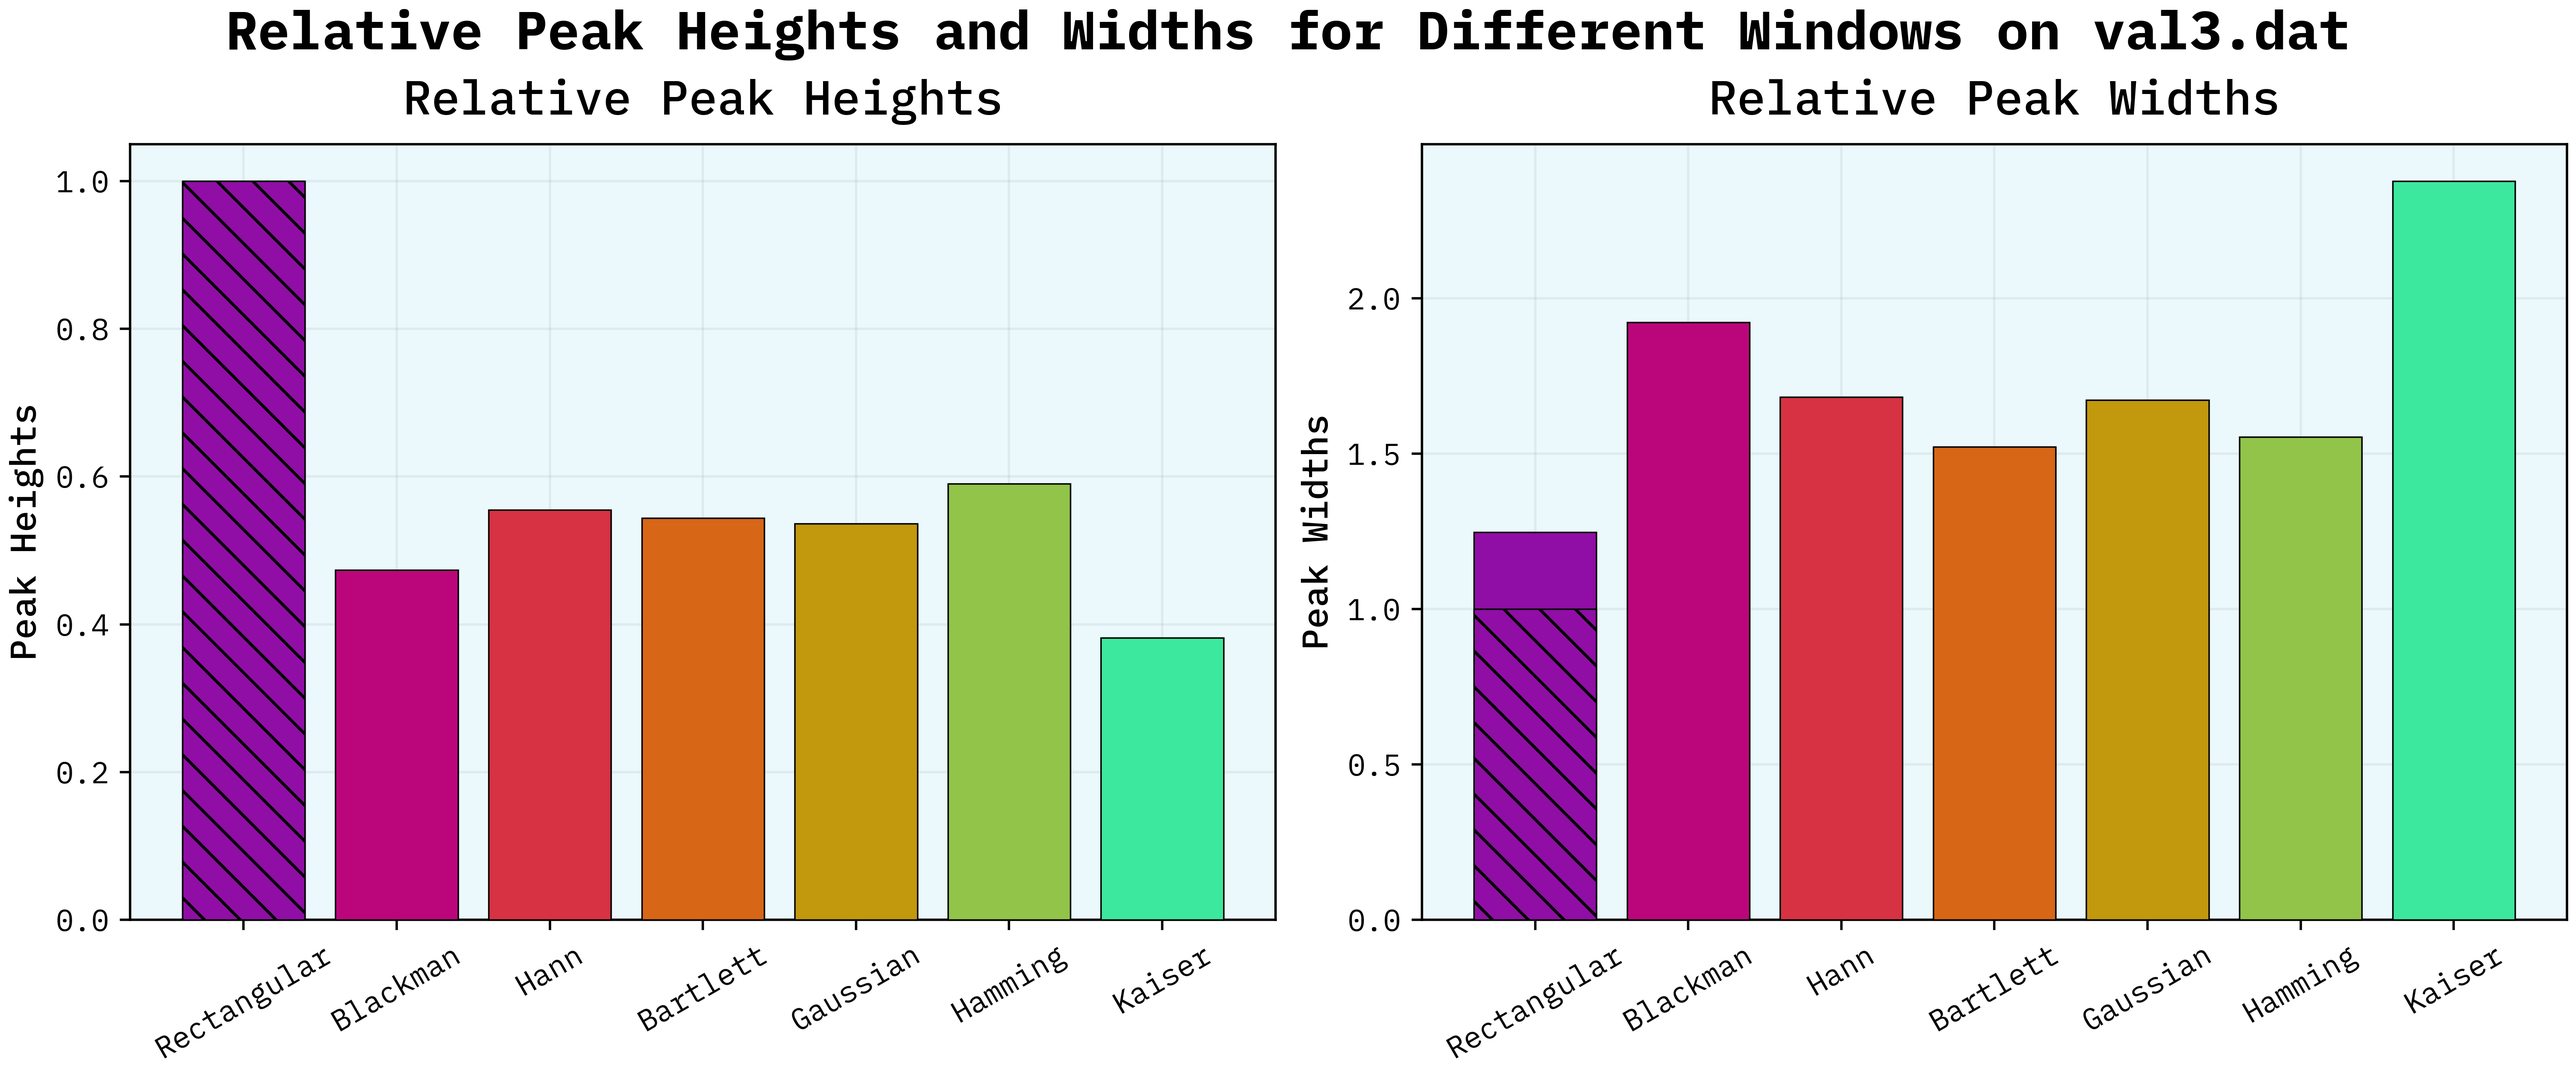
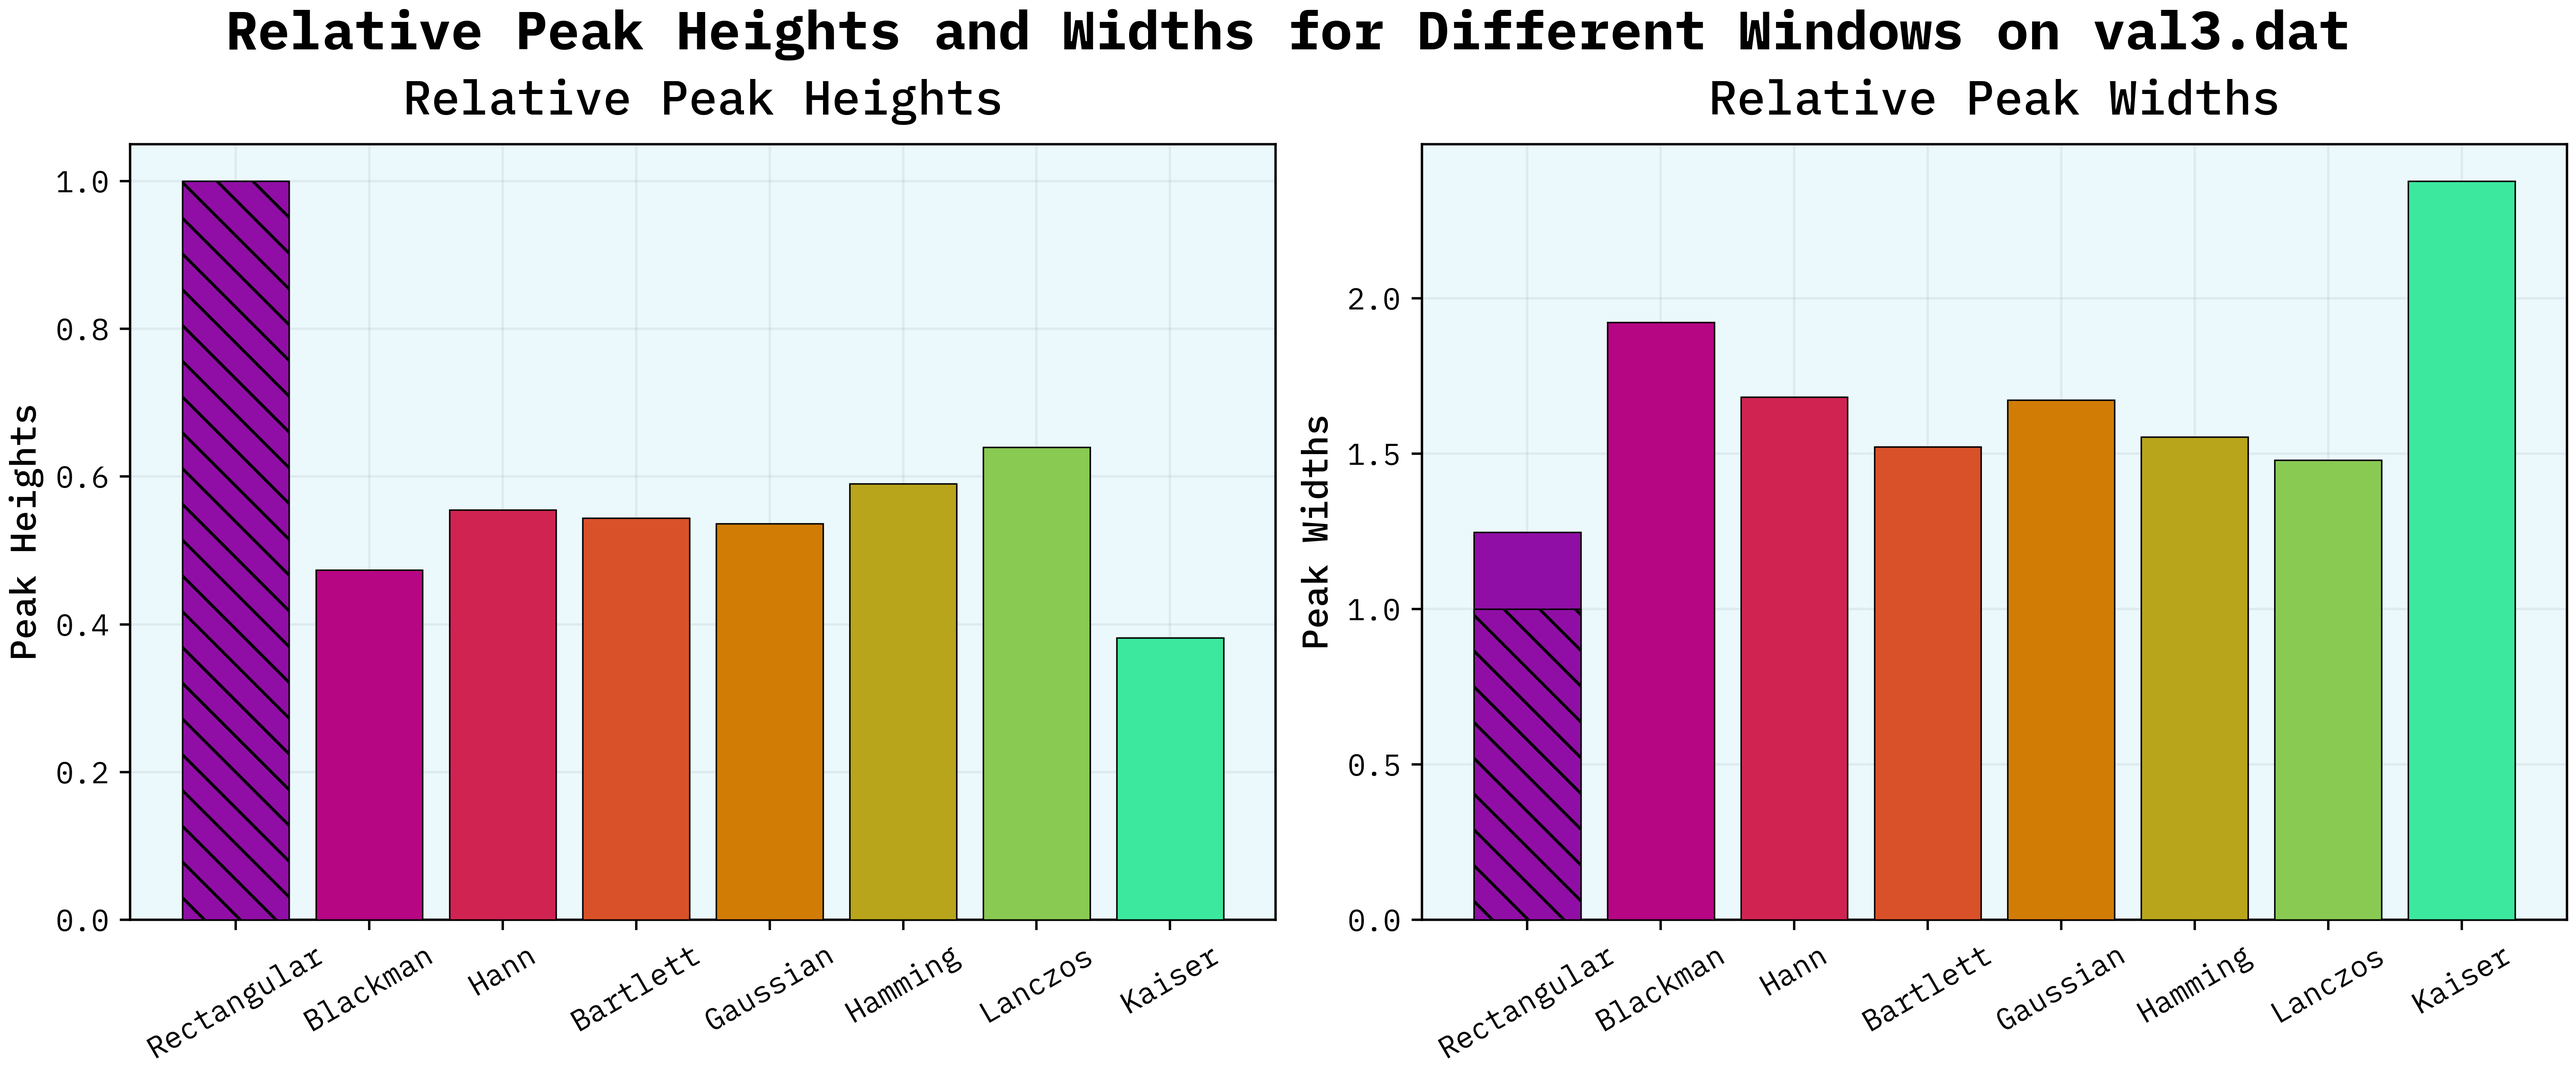
fix: :art: update the rest of the plots to new colorscheme

diff --git a/SpectralAnalysis/Code/plot-windows.py b/SpectralAnalysis/Code/plot-windows.py
@@ -5,6 +5,7 @@ import numpy as np
 import matplotlib.pyplot as plt
 import matplotlib as mpl
 import scipy.signal as signal
+import cmasher as cmr
 
 # Use custom style
 mpl.style.use('./ma-style.mplstyle')
@@ -18,28 +19,33 @@ windows = {
     'Bartlett': signal.windows.bartlett(data_len),
     'Gaussian': signal.windows.gaussian(data_len, std=100),
     'Hamming': signal.windows.hamming(data_len),
-    'Blackman': signal.windows.blackman(data_len),
+    'Lanczos': signal.windows.lanczos(data_len),
     'Kaiser': signal.windows.kaiser(data_len, beta=14)
 }
 
-colors = ["#37123c","#d72483","#ddc4dd","#60afff","#98CE00"]
-fig, ax = plt.subplots(1, 2, figsize=(12, 5), layout='compressed')  
+colors = cmr.take_cmap_colors('cmr.tropical', 8, cmap_range=(0.0, 0.85))
+fig, ax = plt.subplots(1, 1, figsize=(10, 5), layout='compressed')  
 
 plt.suptitle("Window Functions for Signal Processing")
-ax[0].plot(np.arange(data_len), windows['Rectangular'], label='Rectangular', color=colors[0])
-ax[0].plot(np.arange(data_len), windows['Blackman'], label='Blackman', color=colors[1])
-ax[0].plot(np.arange(data_len), windows['Hann'], label='Hann', color=colors[3])
-ax[0].plot(np.arange(data_len), windows['Bartlett'], label='Bartlett', color=colors[4])
 
-ax[1].plot(np.arange(data_len), windows['Gaussian'], label='Gaussian', color=colors[0])
-ax[1].plot(np.arange(data_len), windows['Hamming'], label='Hamming', color=colors[1])
-ax[1].plot(np.arange(data_len), windows['Blackman'], label='Blackman', color=colors[3])
-ax[1].plot(np.arange(data_len), windows['Kaiser'], label='Kaiser', color=colors[4])
+ax.plot(windows['Rectangular'], label='Rectangular', color=colors[0])
+ax.plot(windows['Blackman'], label='Blackman', color=colors[1])
+ax.plot(windows['Hann'], label='Hann', color=colors[2])
+ax.plot(windows['Bartlett'], label='Bartlett', color=colors[3])
+ax.plot(windows['Gaussian'], label='Gaussian', color=colors[4])
+ax.plot(windows['Hamming'], label='Hamming', color=colors[5])
+ax.plot(windows['Lanczos'], label='Lanczos', color=colors[6])
+ax.plot(windows['Kaiser'], label='Kaiser', color=colors[7])
 
-for i in range(2):
-    ax[i].set_xlabel('Sample')
-    ax[i].set_ylabel('Amplitude')
-    ax[i].legend(frameon=False)
-
+ax.set_xlabel('Sample')
+ax.set_ylabel('Amplitude')
+l = ax.legend(ncols=2)
+l.set_title('Window Function')
+f = l.get_frame()
+f.set_edgecolor('black')
+f.set_facecolor('white')
+f.set_linewidth(0.5)
+f.set_alpha(0.8)
+ax.set_xlim(0, data_len)
 plt.savefig("./SpectralAnalysis/Images/window-functions.png", dpi=500)
 plt.show()        

diff --git a/SpectralAnalysis/Code/different-windows.py b/SpectralAnalysis/Code/different-windows.py
@@ -33,7 +33,7 @@ windows = {
     'Bartlett': signal.windows.bartlett(data_len),
     'Gaussian': signal.windows.gaussian(data_len, std=100),
     'Hamming': signal.windows.hamming(data_len),
-    'Blackman': signal.windows.blackman(data_len),
+    'Lanczos': signal.windows.lanczos(data_len),
     'Kaiser': signal.windows.kaiser(data_len, beta=14)
 }
 
@@ -55,7 +55,13 @@ for i, spectrum in enumerate(spectra):
 
 ax.set_xlabel('Frequency (Hz)')
 ax.set_ylabel('Amplitude [arb. u.]')
-ax.legend(frameon=False)
+l = ax.legend(frameon=True, ncols=2)
+l.set_title('Window Function')
+f = l.get_frame()
+f.set_edgecolor('black')
+f.set_facecolor('white')
+f.set_linewidth(0.5)
+f.set_alpha(0.8)
 ax.set_title("Absolute Difference Between Bare and Windowed Spectra")
 ax.set_yscale('log')
 

diff --git a/SpectralAnalysis/Code/peak-widths.py b/SpectralAnalysis/Code/peak-widths.py
@@ -17,7 +17,7 @@ SAMPLE_RATE = 44100
 mpl.style.use('./ma-style.mplstyle')
 
 # Load the signal
-data_path = './SuppliedData/val2.dat'
+data_path = './SuppliedData/val3.dat'
 data = np.loadtxt(data_path)
 data = data / np.max(data)
 data_len = len(data)
@@ -34,7 +34,7 @@ windows = {
     'Bartlett': signal.windows.bartlett(data_len),
     'Gaussian': signal.windows.gaussian(data_len, std=100),
     'Hamming': signal.windows.hamming(data_len),
-    'Blackman': signal.windows.blackman(data_len),
+    'Lanczos': signal.windows.lanczos(data_len),
     'Kaiser': signal.windows.kaiser(data_len, beta=14)
 }
 
